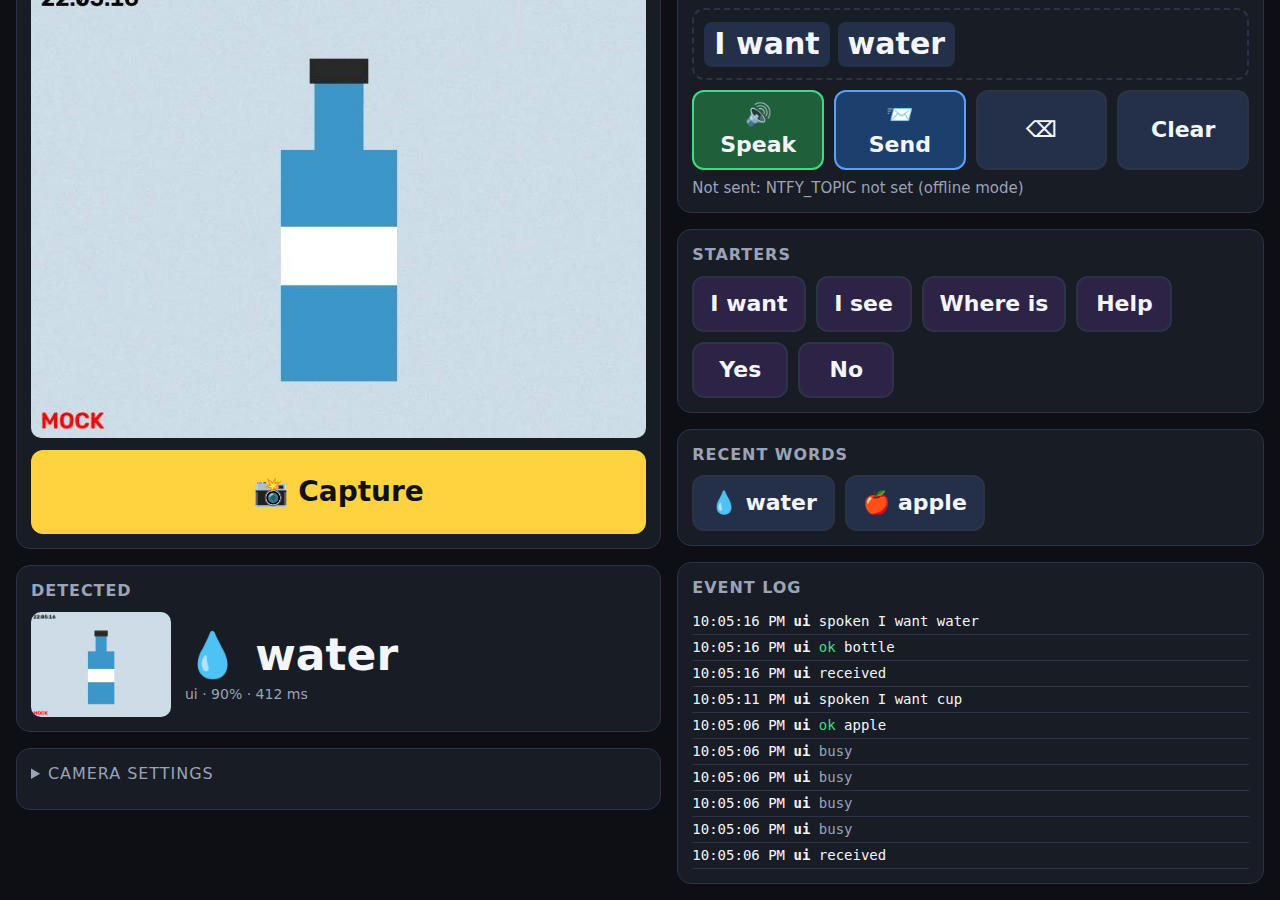
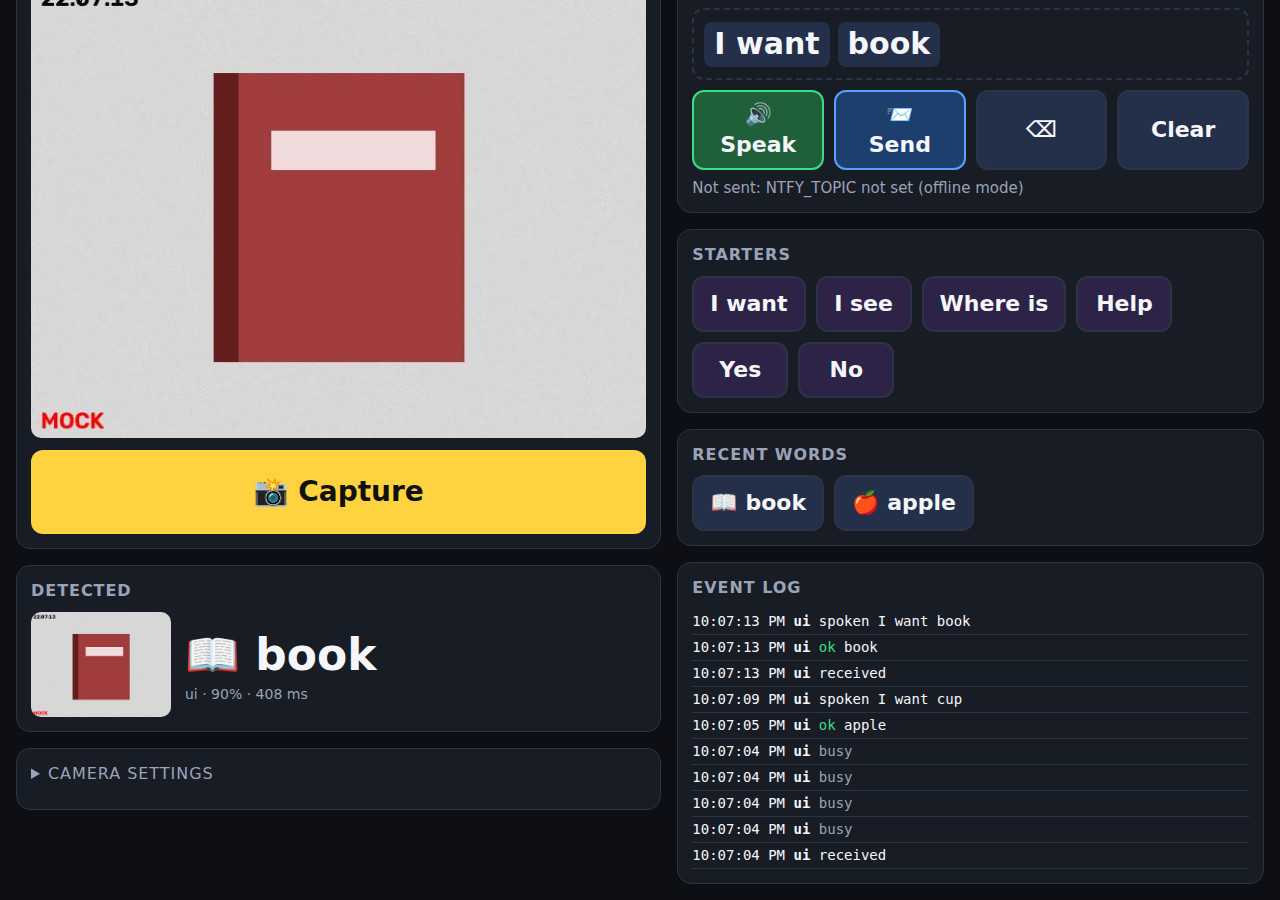
Phase 6: README step cards, debugging guide, CV integration doc
Claude-Session: https://claude.ai/code/session_01RZKxZoKxzFfssXwzr5XyD8

diff --git a/uno_q_app/python/main.py b/uno_q_app/python/main.py
@@ -7,7 +7,7 @@
 # This same file is imported by tools/mock_unoq.py on the laptop with a fake Bridge.
 
 # ============================ EDIT THIS ============================
-LAPTOP_IP = "192.168.137.1"   # laptop's IP on the phone hotspot (server.py prints it at startup)
+LAPTOP_IP = "172.20.10.2"     # laptop IP on the phone hotspot: server.py prints it (iPhone 172.20.10.x, Android often 192.168.x.x / 10.x.x.x)
 PORT = 8000
 # ===================================================================
 HTTP_TIMEOUT_S = 5.0
@@ -107,7 +107,8 @@ def health_check_loop(max_tries=None):
             return True
         print(f"laptop NOT reachable at {base_url()} ({r.get('status')}: {r.get('detail', '')}); retry in {HEALTH_RETRY_S:.0f}s")
         beep("boot_fail")
-        time.sleep(HEALTH_RETRY_S)
+        if max_tries is None or tries < max_tries:
+            time.sleep(HEALTH_RETRY_S)
     return False
 
 

diff --git a/README.md b/README.md
@@ -1,1 +1,169 @@
-# arduino-cue (WIP)
+# 👆 Cue: a smart-ring AAC aid
+
+A nonverbal child points a finger-mounted camera at an object and presses the ring button. The laptop captures a
+short burst, a CV module labels the object, and the UI shows a word tile, speaks it, lets the child build a sentence,
+and can send that sentence to a caregiver's phone.
+
+**Offline** · **Private** (the camera streams into memory only, and nothing is saved until the button is pressed) · **Dedicated device**
+
+```
+[UNO Q, wireless]  Button D2 → MCU sketch → Bridge → UNO Q Python → HTTP POST /trigger ─┐
+[Laptop]  Inland endoscope cam → capture.py (always-on, in memory) → burst → cv_adapter.detect()
+          → TTS + WebSocket → UI (laptop + phone)  → HTTP response ─┐
+[UNO Q]   Python → Bridge → MCU beep pattern   ◄─────────────────────┘
+```
+
+> ⚠ Everything under `uno_q_app*/` is **UNTESTED ON HARDWARE**. All laptop code was tested on Linux with the mock camera
+> (`python tests/acceptance.py`: 14/14 pass), not on Windows with a real camera.
+
+| Path | What |
+|---|---|
+| `uno_q_app_selftest/` | **Hardware self-test** App: button / buzzer / sound sensor. No laptop, no network. |
+| `uno_q_app/` | Main wireless button App (sketch + Python). One config line: `LAPTOP_IP`. |
+| `laptop/server.py` | FastAPI server: `/trigger`, `/health`, `/ws`, `/camera/settings`, `/preview.mjpg`, `/speak`, `/send`, UI |
+| `laptop/capture.py` · `find_camera.py` | Camera layer (USB/mock) · camera index scanner |
+| `laptop/cv_adapter.py` | **CV plug-in point** for the teammate. See [docs/CV_INTEGRATION.md](docs/CV_INTEGRATION.md) |
+| `laptop/config.py` | All laptop settings (env-var overridable) |
+| `ui/index.html` | AAC UI (single file, no build) |
+| `tools/mock_unoq.py` · `dummy_cv_server.py` | Simulated ring button · fake CV HTTP service |
+| `docs/UNO_Q_NOTES.md` | Verified UNO Q / App Lab / Bridge facts with sources; unconfirmed assumptions |
+
+---
+
+## 1. Install (PowerShell, Windows 11, Python 3.11+)
+```powershell
+cd arduino-cue
+py -3.11 -m venv .venv
+.\.venv\Scripts\Activate.ps1          # if blocked: Set-ExecutionPolicy -Scope CurrentUser RemoteSigned
+pip install -r requirements.txt
+python tests\acceptance.py            # optional: 14 no-hardware checks
+```
+
+## 2. UNO Q first-time setup (USB-C, once)
+1. Install **Arduino App Lab** on the laptop. Plug the UNO Q in with a **data** USB-C cable (charge-only cables won't show the board).
+2. App Lab detects the board and runs the setup wizard: board name, **Wi-Fi = your phone hotspot** (WPA2; captive portals are not supported), and a Linux password for user `arduino`.
+   Write the password down, because Network Mode and SSH need it.
+3. Copy `uno_q_app_selftest/` and `uno_q_app/` onto the board. Either create Apps of the same name in App Lab and paste in
+   `sketch/sketch.ino` + `python/main.py`, or copy the folders to `/home/arduino/ArduinoApps/` (e.g. `scp -r uno_q_app arduino@<board>.local:ArduinoApps/`).
+4. After Wi-Fi is set up, App Lab can also reach the board in **Network Mode** (Wi-Fi icon next to the board, mDNS + SSH). When Windows asks, allow `mdns-discovery.exe` through the firewall.
+
+## 3. Hardware self-test (do this first, the moment parts arrive)
+**Wiring.** All modules run at **3.3 V** (UNO Q I/O is 3.3 V).
+
+| Part | Grove Base Shield V2 (switch set to **3V3**) | Direct jumper wires |
+|---|---|---|
+| Button | Grove cable into port **D2** | SIG → D2, VCC → 3.3V, GND → GND (bare 2-leg button: one leg D2, other leg GND, and set `BUTTON_WIRING = 1`) |
+| Buzzer | port **D3** | SIG → D3, VCC → 3.3V, GND → GND |
+| Sound sensor (optional) | port **A0** | SIG → A0, VCC → 3.3V, GND → GND |
+
+**Run.** In App Lab, open **arduino-cue self-test** → ▶ Run → Console → **Serial Monitor** tab.
+1. You should hear **1 short beep** at start, and the wiring summary prints (it repeats every 15 s).
+2. Press the button: **beep + LED flash + `BUTTON PRESSED #1`**. Every raw pin change also prints as `raw D2 -> 0/1`.
+3. Sound sensor (optional): set `SOUND_SENSOR_CONNECTED = true` and run again. `A0 = …` prints every 200 ms, and a clap gives a double beep + `CLAP <v>`.
+
+| Symptom | Likely cause | Fix |
+|---|---|---|
+| No beep at boot | Buzzer on wrong pin, VCC/GND swapped, shield not at 3V3, loose Grove cable | Reseat the cable in D3. Check the shield's 3V3/5V switch. Swap the buzzer module. (Both buzzer types are supported: the sketch sends a 2 kHz square wave) |
+| Boot beep OK, but a press shows no print / no beep | Button not on D2, no power to the module, or Monitor tab not open | Check `raw D2` lines. If none appear on press, the wiring is wrong. Reseat the Grove cable, then try another Grove port and change `BUTTON_PIN` |
+| Constant presses / `raw D2` flapping / "chattering" warning | Floating pin (bare button with `BUTTON_WIRING = 0`) or loose GND | Bare button wired to GND → set `BUTTON_WIRING = 1`. Module → check the GND wire |
+| "PRESSED at boot" warning, or a press prints only on *release* | Polarity inverted | Toggle `BUTTON_WIRING` (0 ↔ 1) |
+| A0 stuck at 0 | Sensor unpowered / wrong pin | Check VCC + GND and that SIG is on A0. Some modules have a sensitivity pot, so turn it |
+| A0 stuck near max (~1023) | Wrong pin / digital-out sound module / pot maxed | Use the analog (AO) pin of the module. Turn the pot down. Adjust `CLAP_THRESHOLD` |
+
+## 4. Camera: find the right index
+Plug the Inland endoscope into the **laptop**. Windows should show it as a webcam. Then run:
+```powershell
+python laptop\find_camera.py
+```
+Open the `probe\` folder: there's one snapshot per working `index` × backend. A dual-lens endoscope may show up as two indices (one per lens). Pick the one that shows what's in front of the **tip** lens.
+```powershell
+$env:CAMERA_INDEX="1"   # whichever index looked right
+```
+(You can also change the index live in the UI under **Camera settings**.)
+
+## 5. Run the server and open the UI
+```powershell
+$env:CAMERA_INDEX="1"; python laptop\server.py
+```
+It prints the UI URL and the exact `LAPTOP_IP` line for the UNO Q. Open `http://127.0.0.1:8000/` on the laptop and
+`http://<laptop-ip>:8000/` on the phone (same hotspot). Under **Camera settings**, tune rotate / flip / zoom / exposure
+while you watch the live preview. Settings persist to `camera_settings.json`. The panel shows the actual resolution and which
+camera properties the device **accepted vs ignored**. Keep objects **3–10 cm** from the endoscope tip for focus.
+
+## 6. Test without hardware
+```powershell
+# terminal 1 (mock camera + mock CV):
+$env:CAMERA_SOURCE="mock"; $env:CV_MODE="mock"; python laptop\server.py
+# terminal 2:
+python laptop\keyboard_trigger.py          # Enter/Space = capture
+python tools\mock_unoq.py                  # simulated ring: Enter = button press, prints the beeps
+python tools\mock_unoq.py --presses 3
+```
+
+## 7. Plug in the teammate's CV
+`$env:CV_MODE="module"; $env:CV_MODULE="teammate_cv.detector:detect"` or `$env:CV_MODE="http"; $env:CV_URL="http://…/detect"`.
+See **[docs/CV_INTEGRATION.md](docs/CV_INTEGRATION.md)**.
+
+## 8. UNO Q goes wireless
+1. Get the laptop's hotspot IP (printed by `server.py`, or `ipconfig` → Wi-Fi adapter → IPv4).
+2. Edit `uno_q_app/python/main.py`: `LAPTOP_IP = "…"` (and `PORT` if changed). This is the only config line.
+3. Open the firewall port once (admin PowerShell):
+   ```powershell
+   New-NetFirewallRule -DisplayName "arduino-cue 8000" -Direction Inbound -Protocol TCP -LocalPort 8000 -Action Allow -Profile Any
+   ```
+4. Run **arduino-cue** in App Lab, then **▼ next to the App name → Run at Startup**.
+5. Unplug from the laptop and power the UNO Q from a power bank. Wait about 1 minute for Linux to boot and the App to start.
+6. Verify from the UNO Q shell (App Lab terminal or `ssh arduino@<board-name>.local`):
+   ```bash
+   curl http://<LAPTOP_IP>:8000/health      # -> {"ok":true,"camera":true,"cv_mode":"mock"}
+   ```
+   3 short beeps repeating every 5 s = the UNO Q cannot reach `/health` (see Debugging).
+
+## 9. End-to-end
+Press the ring button. The UI **Event log** shows `button received` → `button ok cup`, the detection card shows the word,
+the laptop speaks it, and the ring plays **1 short beep**.
+
+| Ring beep | Meaning |
+|---|---|
+| 1 short at power-on | MCU alive |
+| 3 short, repeating | Laptop `/health` unreachable (boot) |
+| 1 short | Word found |
+| 2 short | Nothing recognised |
+| none | Busy (capture in progress) |
+| 1 long | Error / > 5 s / laptop unreachable (`BUTTON OK, LAPTOP UNREACHABLE` in the Python log) |
+
+## 10. 60-second demo script
+1. **(0:00)** "Maya is nonverbal. Picture boards are slow, and phones are distracting. Cue is a ring with a camera."
+2. **(0:10)** Show the phone UI: live preview from the ring. "Nothing is recorded, it's only in memory."
+3. **(0:20)** Point the ring at a cup and **press the button**. *Beep.* The tile says **cup**, and the laptop says "cup".
+4. **(0:30)** Tap **I want** + **cup** → **Speak**: "I want cup."
+5. **(0:40)** Tap **Send**, and the caregiver's phone buzzes (ntfy). "All offline except this opt-in message."
+6. **(0:50)** Point at nothing and press: *beep beep* = "I didn't recognise that, try again." Close on the pitch pillars: offline, private, dedicated.
+
+Backup plan: if the camera or CV misbehaves, run with `CAMERA_SOURCE=mock` (and `MOCK_LABELS="cup,apple,ball"`). The rest of the demo is identical.
+
+---
+
+## Debugging
+| Problem | Fix |
+|---|---|
+| Inland endoscope not detected as a webcam | Try another USB port and the USB-C↔A adapter. Check Settings → Privacy → Camera → allow desktop apps. Close other camera apps (Teams/Zoom). Use the **Logitech C270** backup (same steps, run `find_camera.py`). |
+| Wrong lens / wrong index | Run `find_camera.py`, compare `probe\index*_*.jpg`, set `CAMERA_INDEX` or switch it in the UI. Some dual-lens models switch lens with a button on the cable. |
+| Black frames | Status shows "BLACK FRAMES". Usually the wrong index (e.g. a virtual or IR camera), the endoscope LEDs are off, or it needs more light. Raise `warmup_frames`. Try backend MSMF. |
+| Stale / frozen preview | The server reopens the camera after 3 failed reads (`reconnects` count in the UI). Replug the cable. Changing the index or backend in the UI forces a reopen. |
+| Out of focus | Endoscope focus is fixed at about 3–10 cm (1.2–4 in). Move the object closer or further. Digital zoom only crops. |
+| Brightness/exposure "IGNORED" | Many UVC cameras ignore some properties. The UI shows the readback. Try the other backend (DSHOW ↔ MSMF), or switch auto exposure on. |
+| Phone / UNO Q can't reach the laptop | Add the firewall rule from step 8. Hotspots are often a "Public" network profile, so use `-Profile Any`. Make sure **all** devices are on the **phone hotspot**, not campus Wi-Fi (it blocks device-to-device traffic). Check the IP again with `ipconfig`, because the hotspot can hand out a new one. |
+| `curl` from UNO Q hangs | Wrong `LAPTOP_IP`, the server isn't running, or the firewall. From the UNO Q, run `ping <LAPTOP_IP>`. |
+| Button polarity | Self-test step 3 table: toggle `BUTTON_WIRING` in the sketch (both apps). |
+| Grove module flaky | Reseat both ends of the Grove cable. The Base Shield switch must be at **3V3**. Try another port and update the pin constant. |
+| UNO Q not seen by App Lab | Use a data USB-C cable (charge-only cables are common). Try another port. In Network Mode the board must be on the same network as the laptop with mDNS allowed. |
+| UNO Q dies after ~30 s on the power bank | The bank auto-shuts off at low current. Use a bank with an always-on or low-current mode, or charge something else from it at the same time. |
+| App doesn't start on power-up | Set **Run at Startup** (only one App can be the startup App). |
+| No speech | `pyttsx3` uses Windows SAPI5. Check the volume and output device. Set `$env:TTS_ENABLED="0"` to disable. |
+| Send says "NTFY_TOPIC not set" | Expected offline behaviour. To enable: `$env:NTFY_TOPIC="cue-<random>"` and subscribe to that topic in the ntfy phone app (needs internet on the hotspot). |
+
+## Config reference (`laptop/config.py`, all env vars)
+`CAMERA_SOURCE` usb|mock · `CAMERA_INDEX` 0–4 · `CAMERA_BACKEND` DSHOW|MSMF · `CAMERA_WIDTH/HEIGHT` · `CAMERA_MJPG` ·
+`WARMUP_FRAMES` 10 · `BURST_N` 5 · `BURST_GAP_MS` 100 · `CV_MODE` mock|module|http · `CV_MODULE` · `CV_URL` · `MOCK_LABELS` ·
+`TTS_ENABLED` · `NTFY_TOPIC` · `NTFY_SERVER` · `PORT` 8000 · `HOST` 0.0.0.0

diff --git a/docs/CV_INTEGRATION.md b/docs/CV_INTEGRATION.md
@@ -1,0 +1,77 @@
+# CV integration (for the CV teammate)
+
+All object detection sits behind one function, `laptop/cv_adapter.py → detect(frames)`. You don't need to touch
+the server, camera, UNO Q or UI.
+
+## The contract
+```python
+def detect(frames: list["np.ndarray"]) -> dict:
+    """Input: list of BGR frames (burst). Output: {"label": str, "confidence": float} or {"label": "", "confidence": 0.0} if nothing found."""
+```
+- `frames`: a burst of `BURST_N` (default 5) OpenCV **BGR** `uint8` images taken `BURST_GAP_MS` (default 100 ms) apart.
+  They are already rotated, flipped and zoomed per the UI camera settings. The resolution is the camera's actual one (typically 1280×720 or 640×480).
+- Return the single best label for the burst. You might vote across frames, or pick the sharpest frame.
+- Return `{"label": "", "confidence": 0.0}` for "nothing found". The ring then plays 2 short beeps.
+- **Time budget: ≤ ~3.5 s total.** The server aborts the pipeline at 4.5 s (the UNO Q gives up at 5 s, and burst capture takes ~0.5 s).
+- Labels are shown and spoken as-is. To change a word or add an emoji, edit `laptop/labels.py` (e.g. `"bottle" → "water 💧"`). This is optional.
+- If your code raises, the server returns `status: "error"` and the ring plays a long beep.
+
+## The three modes (`CV_MODE` env var)
+| Mode | What happens | Config |
+|---|---|---|
+| `mock` (default) | No model. Label comes from `MOCK_LABELS` (comma list, cycled) or from the mock camera's sample filename (`samples/apple.jpg` → `apple`). | `MOCK_LABELS="cup,ball"` (optional) |
+| `module` | Imports your function in-process and calls it with the frames. | `CV_MODULE="package.module:function"` (path relative to the repo root) |
+| `http` | POSTs the burst as JPEGs to your service and expects the same JSON back. Good if your model needs another Python env or GPU box. | `CV_URL="http://127.0.0.1:9000/detect"`, `CV_TIMEOUT_S=4` |
+
+## Module mode: example stub
+Put a file in the repo, e.g. `teammate_cv/detector.py`, plus an empty `teammate_cv/__init__.py`:
+```python
+import numpy as np
+
+_model = None
+
+def _load():
+    global _model
+    if _model is None:
+        _model = ...  # load weights once, on first call
+    return _model
+
+def detect(frames: list[np.ndarray]) -> dict:
+    if not frames:
+        return {"label": "", "confidence": 0.0}
+    model = _load()
+    best = frames[len(frames) // 2]          # or score every frame and vote
+    label, conf = "cup", 0.87                # <- your inference here
+    return {"label": label, "confidence": float(conf)} if conf >= 0.4 else {"label": "", "confidence": 0.0}
+```
+Run it (PowerShell):
+```powershell
+$env:CV_MODE="module"; $env:CV_MODULE="teammate_cv.detector:detect"; python laptop\server.py
+```
+A working example is at `examples/teammate_cv_stub.py`: `$env:CV_MODULE="examples.teammate_cv_stub:detect"`.
+Load the model at import time or on first call. The first trigger after start-up should not pay a 10 s load, so call your
+`_load()` at import if it is slow.
+
+## HTTP mode
+Request: `POST CV_URL`, `multipart/form-data`, one or more files in field **`frames`** (JPEG, in burst order).
+Response: `{"label": "cup", "confidence": 0.87}` (HTTP 200).
+
+Test with the dummy service:
+```powershell
+python tools\dummy_cv_server.py --port 9000 --labels "cup,apple"
+$env:CV_MODE="http"; $env:CV_URL="http://127.0.0.1:9000/detect"; python laptop\server.py
+```
+curl example (Windows 10/11 ships `curl.exe`):
+```powershell
+curl.exe -X POST http://127.0.0.1:9000/detect -F "frames=@samples/apple.jpg" -F "frames=@samples/cup.jpg"
+# -> {"label":"cup","confidence":0.77}
+```
+
+## Test your detector without hardware
+```powershell
+$env:CAMERA_SOURCE="mock"; $env:CV_MODE="module"; $env:CV_MODULE="teammate_cv.detector:detect"
+python laptop\server.py
+# second terminal:
+python laptop\keyboard_trigger.py --once
+```
+Put your own test photos in `samples/` (e.g. `samples/cup_1.jpg`). The mock camera cycles through them every 3 s.

diff --git a/uno_q_app/README.md b/uno_q_app/README.md
@@ -5,7 +5,7 @@ Wireless ring button. Button D2 → MCU → Bridge → Linux Python → `POST ht
 ## Configure
 Edit the top of `python/main.py`:
 ```python
-LAPTOP_IP = "192.168.137.1"   # the laptop's hotspot IP (server.py prints it at startup)
+LAPTOP_IP = "172.20.10.2"     # the laptop's hotspot IP (server.py prints it at startup)
 PORT = 8000
 ```
 Button wiring and the optional clap trigger are set at the top of `sketch/sketch.ino` (`BUTTON_WIRING`, `CLAP_ENABLED`).
